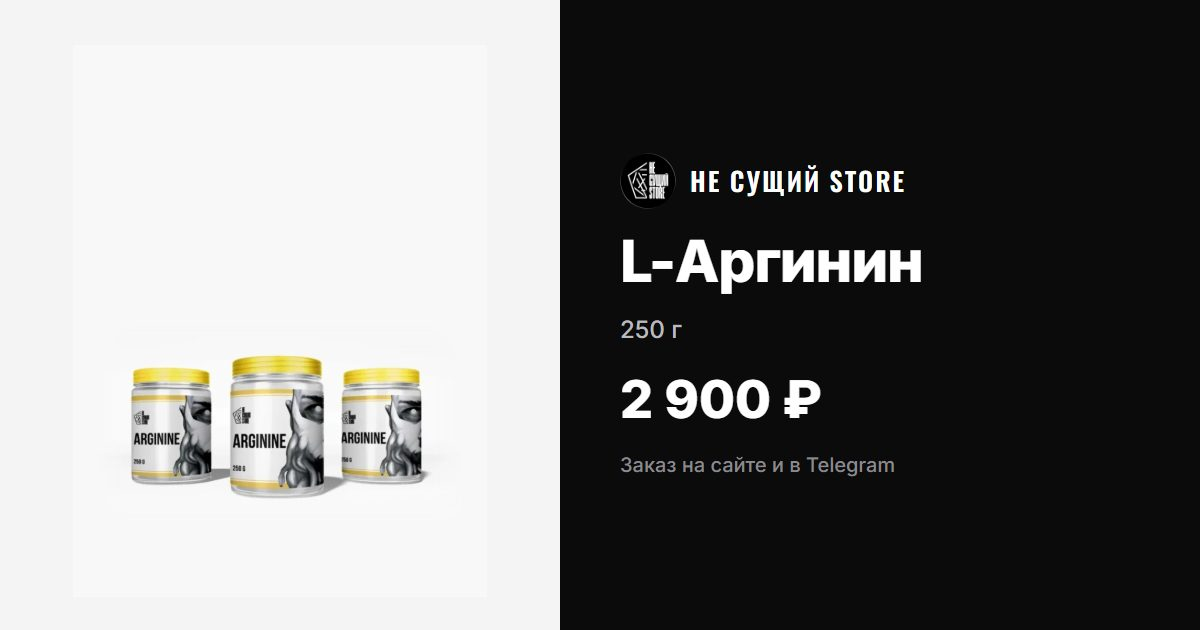
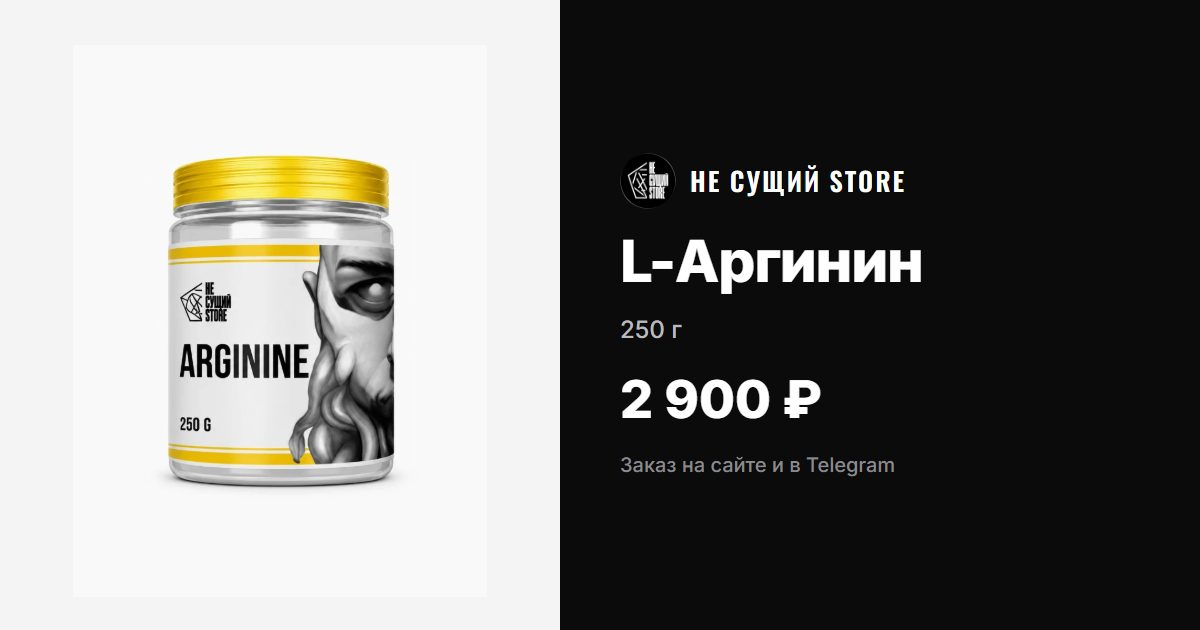
Сайт: fb9321e Новые фото Бета-Аланина и Аргинина в общем кадре; профиль браузера normimg — во временной папке

Changed region(s): [[0.0925, 0.2413, 0.37, 0.8143]]

diff --git a/index.html b/index.html
@@ -24,12 +24,12 @@
   <!-- шрифты не блокируют первую отрисовку -->
   <link rel="preload" as="style" href="https://fonts.googleapis.com/css2?family=Inter:wght@400;500;600;700;800&family=Oswald:wght@500;600&display=swap" onload="this.onload=null;this.rel='stylesheet'">
   <noscript><link rel="stylesheet" href="https://fonts.googleapis.com/css2?family=Inter:wght@400;500;600;700;800&family=Oswald:wght@500;600&display=swap"></noscript>
-  <link rel="stylesheet" href="styles.css?v=f325eb1">
-  <link rel="stylesheet" href="mega.css?v=f325eb1">
-  <link rel="stylesheet" href="home.css?v=f325eb1">
-  <link rel="stylesheet" href="reviews.css?v=f325eb1">
-  <link rel="stylesheet" href="account.css?v=f325eb1">
-  <link rel="stylesheet" href="mobile.css?v=f325eb1">
+  <link rel="stylesheet" href="styles.css?v=fb9321e">
+  <link rel="stylesheet" href="mega.css?v=fb9321e">
+  <link rel="stylesheet" href="home.css?v=fb9321e">
+  <link rel="stylesheet" href="reviews.css?v=fb9321e">
+  <link rel="stylesheet" href="account.css?v=fb9321e">
+  <link rel="stylesheet" href="mobile.css?v=fb9321e">
 </head>
 <body>
   <!-- Иконки -->
@@ -409,12 +409,12 @@
 
   <div class="toast" id="toast" role="status"></div>
 
-  <script defer src="config.js?v=f325eb1"></script>
-  <script defer src="vendor/supabase.js?v=f325eb1"></script>
-  <script defer src="api.js?v=f325eb1"></script>
-  <script defer src="products.js?v=f325eb1"></script>
-  <script defer src="reviews.js?v=f325eb1"></script>
-  <script defer src="app.js?v=f325eb1"></script>
-  <script defer src="account.js?v=f325eb1"></script>
+  <script defer src="config.js?v=fb9321e"></script>
+  <script defer src="vendor/supabase.js?v=fb9321e"></script>
+  <script defer src="api.js?v=fb9321e"></script>
+  <script defer src="products.js?v=fb9321e"></script>
+  <script defer src="reviews.js?v=fb9321e"></script>
+  <script defer src="app.js?v=fb9321e"></script>
+  <script defer src="account.js?v=fb9321e"></script>
 </body>
 </html>

diff --git a/products.js b/products.js
@@ -2123,9 +2123,9 @@ const PRODUCTS = [
     "name": "L-Аргинин",
     "pack": "250 г",
     "price": 2900,
-    "img": "p/arginine.webp?v=5cc3106f",
+    "img": "p/arginine.webp?v=2d4d3b4a",
     "gallery": [
-      "p/arginine.webp?v=5cc3106f"
+      "p/arginine.webp?v=2d4d3b4a"
     ],
     "tagline": "Для кровообращения и выносливости",
     "desc": "Аргинин - условно незаменимая аминокислота, которая активно используется спортсменами. Она улучшает кровообращение, придает мышцам памп и наполненность, повышает силовые и продуктивность тренировок.",
@@ -2160,9 +2160,9 @@ const PRODUCTS = [
     "name": "Бета-Аланин",
     "pack": "250 г",
     "price": 2500,
-    "img": "p/beta-alanine.webp?v=57846db6",
+    "img": "p/beta-alanine.webp?v=6c572d66",
     "gallery": [
-      "p/beta-alanine.webp?v=57846db6"
+      "p/beta-alanine.webp?v=6c572d66"
     ],
     "tagline": "Выносливость и больше повторов до отказа",
     "desc": "Бета-аланин — натуральная аминокислота, которая повышает уровень карнозина в мышцах. Это вещество тормозит закисление мышц, делает их более выносливыми и снижает усталость.",
